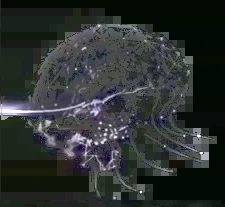
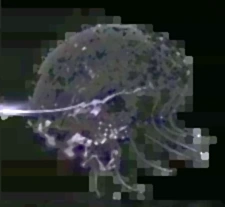
fix(studio): 总检查收尾——水母素材去块平滑 / 日历星期对齐 / 财务健康卡片圆角归一 / 技能抽屉 hover
- 素材: jelly-health/finance/var-1..8 做中值+高斯+轻锐化去块平滑, 亮度 mean/std 偏差 <2.1
- 日历: 补星期表头(一..日, 与健康打卡网格同式) + 首日偏移 CAL_FIRST_DOW, 10/1 对齐周四
- 06 对齐: 财务/健康模块 studio-glass 卡去掉 rounded-2xl 覆盖, 回落 --studio-radius 12px 令牌
- 技能库: agent 抽屉头部补 hover:opacity-95, 与技能行一致

diff --git a/src/components/studio/finance-module.tsx b/src/components/studio/finance-module.tsx
@@ -188,7 +188,7 @@ function StatCard({
     <div
       data-testid={testid}
       {...dataProps}
-      className="studio-glass rounded-2xl p-4"
+      className="studio-glass p-4"
     >
       <p className="text-[11px] text-[color:var(--studio-muted)]">{label}</p>
       <div className="mt-1.5">{children}</div>
@@ -497,7 +497,7 @@ export function FinanceModuleView(props: FinanceModuleProps) {
     <div data-testid="finance-view" className="space-y-6">
       {/* ---------- 概览 ---------- */}
       <FinSection title="概览" en="Overview" testid="fin-overview">
-        <div className="studio-glass flex flex-wrap items-center justify-between gap-2 rounded-2xl px-4 py-3">
+        <div className="studio-glass flex flex-wrap items-center justify-between gap-2 px-4 py-3">
           <p className="text-[13px]">
             {greeting()}，这是你在 {monthLabel(nowMonth)} 的财务概览。
             <span className="ml-2 text-[11px] text-[color:var(--studio-muted)]">
@@ -699,7 +699,7 @@ export function FinanceModuleView(props: FinanceModuleProps) {
       {/* ---------- 记账明细 ---------- */}
       <FinSection title="记账明细" en="Entries" testid="fin-entries-section">
         <form
-          className="studio-glass grid gap-2 rounded-2xl p-4 md:grid-cols-[150px_110px_130px_1fr_1fr_auto]"
+          className="studio-glass grid gap-2 p-4 md:grid-cols-[150px_110px_130px_1fr_1fr_auto]"
           onSubmit={(e) => {
             e.preventDefault();
             submitEntry();
@@ -821,7 +821,7 @@ export function FinanceModuleView(props: FinanceModuleProps) {
                   key={e.id}
                   data-testid="fin-entry-row"
                   data-entry-id={e.id}
-                  className="studio-glass flex items-center gap-3 rounded-2xl px-4 py-3"
+                  className="studio-glass flex items-center gap-3 px-4 py-3"
                 >
                   <div className="min-w-0 flex-1">
                     <p className="flex flex-wrap items-center gap-2 text-sm font-medium">
@@ -1077,7 +1077,7 @@ export function FinanceModuleView(props: FinanceModuleProps) {
           data-total={liabTotal}
           data-min={liabMin}
           data-count={liabilities.length}
-          className="studio-glass flex flex-wrap items-center gap-x-6 gap-y-1 rounded-2xl px-4 py-3 text-[13px]"
+          className="studio-glass flex flex-wrap items-center gap-x-6 gap-y-1 px-4 py-3 text-[13px]"
         >
           <span>
             总负债 <b className="tabular-nums">{fmtMoney(liabTotal)}</b>
@@ -1092,7 +1092,7 @@ export function FinanceModuleView(props: FinanceModuleProps) {
         <div
           data-testid="fin-liab-advice"
           data-name={advice ? advice.name : "none"}
-          className="studio-glass rounded-2xl border-l-4 border-l-violet-500 p-4"
+          className="studio-glass border-l-4 border-l-violet-500 p-4"
         >
           <p className="flex items-center gap-2 text-[13px] font-semibold">
             优先偿还建议
@@ -1116,7 +1116,7 @@ export function FinanceModuleView(props: FinanceModuleProps) {
           )}
         </div>
         <form
-          className="studio-glass grid gap-2 rounded-2xl p-4 md:grid-cols-[1fr_120px_120px_110px_120px_auto]"
+          className="studio-glass grid gap-2 p-4 md:grid-cols-[1fr_120px_120px_110px_120px_auto]"
           onSubmit={(e) => {
             e.preventDefault();
             submitLiab();
@@ -1238,7 +1238,7 @@ export function FinanceModuleView(props: FinanceModuleProps) {
                   key={l.id}
                   data-testid="fin-liab-row"
                   data-liab-id={l.id}
-                  className="studio-glass flex items-center gap-3 rounded-2xl px-4 py-3"
+                  className="studio-glass flex items-center gap-3 px-4 py-3"
                 >
                   <div className="min-w-0 flex-1">
                     <p className="text-sm font-medium">
@@ -1313,7 +1313,7 @@ export function FinanceModuleView(props: FinanceModuleProps) {
           data-count={assets.length}
           data-cost={assetCost}
           data-value={assetValue === null ? "none" : assetValue}
-          className="studio-glass flex flex-wrap items-center gap-x-6 gap-y-1 rounded-2xl px-4 py-3 text-[13px]"
+          className="studio-glass flex flex-wrap items-center gap-x-6 gap-y-1 px-4 py-3 text-[13px]"
         >
           <span>
             共 <b className="tabular-nums">{assets.length}</b> 项
@@ -1332,7 +1332,7 @@ export function FinanceModuleView(props: FinanceModuleProps) {
           </span>
         </div>
         <form
-          className="studio-glass grid gap-2 rounded-2xl p-4 md:grid-cols-[1fr_110px_130px_130px_auto]"
+          className="studio-glass grid gap-2 p-4 md:grid-cols-[1fr_110px_130px_130px_auto]"
           onSubmit={(e) => {
             e.preventDefault();
             submitAsset();
@@ -1432,7 +1432,7 @@ export function FinanceModuleView(props: FinanceModuleProps) {
                   key={a.id}
                   data-testid="fin-asset-row"
                   data-asset-id={a.id}
-                  className="studio-glass flex items-center gap-3 rounded-2xl px-4 py-3"
+                  className="studio-glass flex items-center gap-3 px-4 py-3"
                 >
                   <div className="min-w-0 flex-1">
                     <p className="text-sm font-medium">
@@ -1488,7 +1488,7 @@ export function FinanceModuleView(props: FinanceModuleProps) {
       {/* ---------- AI 诊断（占位，走聊天回路） ---------- */}
       <div
         data-testid="fin-ai-card"
-        className="studio-glass rounded-2xl border-violet-400/30 p-4"
+        className="studio-glass border-violet-400/30 p-4"
       >
         <p className="flex items-center gap-2 text-[13px] font-semibold">
           <Sparkles className="h-4 w-4 text-violet-400" />

diff --git a/src/components/studio/health-module.tsx b/src/components/studio/health-module.tsx
@@ -160,7 +160,7 @@ function ExerciseRow({
     <li
       data-testid="health-exercise-row"
       data-exercise={item.id}
-      className="studio-glass rounded-2xl px-4 py-3"
+      className="studio-glass px-4 py-3"
     >
       <div className="flex items-center gap-3">
         <div className="min-w-0 flex-1">
@@ -324,7 +324,7 @@ export function HealthModuleView({
           data-testid="health-today"
           data-dow={now.getDay()}
           data-training={training ? "1" : "0"}
-          className="studio-glass flex flex-wrap items-center justify-between gap-2 rounded-2xl px-4 py-3"
+          className="studio-glass flex flex-wrap items-center justify-between gap-2 px-4 py-3"
         >
           <p className="text-[13px]">
             今天 {WEEKDAY_LABELS[now.getDay()]} ·{" "}
@@ -371,7 +371,7 @@ export function HealthModuleView({
 
       {/* ---------- 每日打卡 ---------- */}
       <HealthSection title="每日打卡" en="Check-in" testid="health-checkin-section">
-        <div className="studio-glass rounded-2xl p-4">
+        <div className="studio-glass p-4">
           <div className="flex flex-wrap items-center gap-4">
             <button
               type="button"
@@ -463,7 +463,7 @@ export function HealthModuleView({
         ) : !sync ? (
           <div
             data-testid="health-sync-empty"
-            className="studio-glass rounded-2xl px-4 py-6 text-center"
+            className="studio-glass px-4 py-6 text-center"
           >
             <Moon className="mx-auto h-5 w-5 text-[color:var(--studio-muted)]" />
             <p className="mt-2 text-[13px] font-medium">数据待同步</p>
@@ -477,7 +477,7 @@ export function HealthModuleView({
               <div
                 data-testid="health-sleep-card"
                 data-hours={lastSleep ? lastSleep.hours : "none"}
-                className="studio-glass rounded-2xl p-4"
+                className="studio-glass p-4"
               >
                 <p className="text-[11px] text-[color:var(--studio-muted)]">
                   最近一晚睡眠
@@ -521,7 +521,7 @@ export function HealthModuleView({
                   <p className="mt-1.5 text-[13px]">暂无睡眠记录</p>
                 )}
               </div>
-              <div data-testid="health-body-card" className="studio-glass rounded-2xl p-4">
+              <div data-testid="health-body-card" className="studio-glass p-4">
                 <p className="text-[11px] text-[color:var(--studio-muted)]">
                   步数 · 体重
                 </p>
@@ -555,7 +555,7 @@ export function HealthModuleView({
       {/* ---------- 饮食 ---------- */}
       <HealthSection title="饮食" en="Diet" testid="health-diet-section">
         <div className="grid gap-3 md:grid-cols-2">
-          <div data-testid="health-diet-card" className="studio-glass rounded-2xl p-4">
+          <div data-testid="health-diet-card" className="studio-glass p-4">
             <p className="text-[11px] text-[color:var(--studio-muted)]">
               每日建议
             </p>
@@ -575,7 +575,7 @@ export function HealthModuleView({
           </div>
           <div
             data-testid="health-diet-analysis"
-            className="studio-glass rounded-2xl p-4"
+            className="studio-glass p-4"
           >
             <p className="flex items-center gap-1.5 text-[11px] text-[color:var(--studio-muted)]">
               <Camera className="h-3.5 w-3.5" />

diff --git a/src/app/(app)/studio/page.tsx b/src/app/(app)/studio/page.tsx
@@ -308,6 +308,10 @@ type CalItem = { id: string; date: string; title: string; note?: string };
 const CAL_ITEMS_KEY = "studio_calendar_items_v1";
 const CAL_YEAR = 2026;
 const CAL_MONTH = 10;
+/** Monday-first leading blanks for the fixed month (same formula as the
+ *  health check-in month grid, so both calendar grids align alike). */
+const CAL_FIRST_DOW =
+  (new Date(CAL_YEAR, CAL_MONTH - 1, 1).getDay() + 6) % 7;
 const calDateStr = (day: number): string =>
   `${CAL_YEAR}-${String(CAL_MONTH).padStart(2, "0")}-${String(day).padStart(2, "0")}`;
 const todayStr = (): string => {
@@ -2236,7 +2240,7 @@ export default function StudioPage() {
                               type="button"
                               data-testid={`skills-group-toggle-${agent.id}`}
                               aria-expanded={open}
-                              className="flex w-full items-center justify-between gap-3 px-4 py-3 text-left"
+                              className="flex w-full items-center justify-between gap-3 px-4 py-3 text-left hover:opacity-95"
                               onClick={() => toggleAgentOpen(agent.id)}
                             >
                               <span className="flex min-w-0 items-baseline gap-2">
@@ -2547,6 +2551,17 @@ export default function StudioPage() {
                         </button>
                       </div>
                       <div className="grid grid-cols-7 gap-1.5" data-testid="cal-grid">
+                        {["一", "二", "三", "四", "五", "六", "日"].map((w) => (
+                          <span
+                            key={w}
+                            className="text-center text-[9px] text-[color:var(--studio-muted)]"
+                          >
+                            {w}
+                          </span>
+                        ))}
+                        {Array.from({ length: CAL_FIRST_DOW }).map((_, i) => (
+                          <span key={`cal-blank-${i}`} aria-hidden="true" />
+                        ))}
                         {CAL_DAYS.map((d) => {
                           const ds = calDateStr(d);
                           const count = calItems.reduce(
